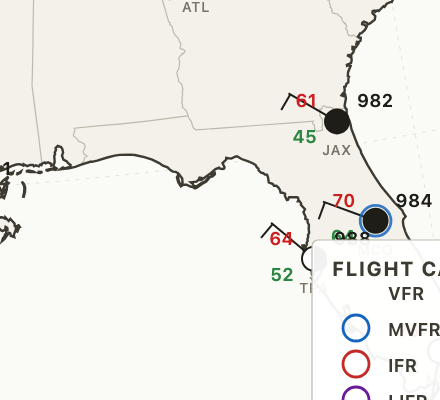
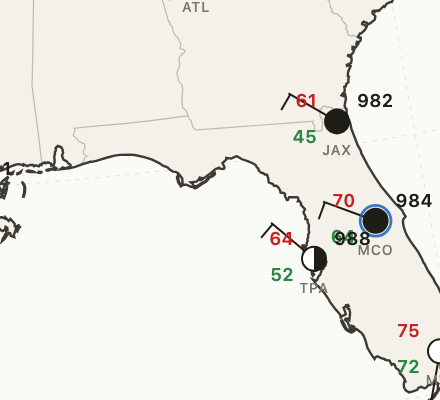
spike(wx-chart-03): move legends into footer band so Florida/MIA stays visible

Changed region(s): [[0.7091, 0.6, 1.0, 1.0], [0.8864, 0.72, 0.975, 0.75]]

diff --git a/spikes/wx-charts/03-metar-plot-grid/src/render.ts b/spikes/wx-charts/03-metar-plot-grid/src/render.ts
@@ -19,6 +19,18 @@ import { resolve } from 'node:path';
 import { geoPath, type GeoProjection } from 'd3-geo';
 import { loadBasemap } from './basemap';
 import { buildConusProjection, SVG_HEIGHT, SVG_WIDTH, TITLE_BAND_HEIGHT } from './projection';
+
+/**
+ * Spike 3 extends the canvas height for a footer legend strip. The
+ * projection fits into the original SVG_HEIGHT (Spike-2 contract); the
+ * footer adds dedicated space below for legends so they don't overlap
+ * Florida, the Gulf coast, or the Pacific NW.
+ *
+ * If we composed Spike 3 with another chart (radar), we'd drop the
+ * footer and use the spike-2 dimensions.
+ */
+const FOOTER_HEIGHT = 110;
+const TOTAL_HEIGHT = SVG_HEIGHT + FOOTER_HEIGHT;
 import { resolveCollisions, type PlacedGlyph } from './collision';
 import { renderStationModel } from './station-model';
 import { ceilingFtAgl, flightCategory, summarizeCover, type ParsedMetar, type FlightCategory } from './metar';
@@ -78,12 +90,13 @@ function renderTitle(envelope: IngestEnvelope): string {
  * Glyph legend showing the station-model layout. Bottom-left area.
  */
 function renderLegend(): string {
+	const W = 460;
+	const H = FOOTER_HEIGHT - 10;
+	// Footer strip, left half
 	const x0 = 24;
-	const y0 = SVG_HEIGHT - 138;
-	const W = 320;
-	const H = 116;
-	const legendCx = x0 + 200;
-	const legendCy = y0 + 60;
+	const y0 = SVG_HEIGHT + 5;
+	const legendCx = x0 + W - 60;
+	const legendCy = y0 + H / 2;
 	// Build a fake parsed METAR for the demo glyph
 	const demo: ParsedMetar = {
 		station: 'KDEM',
@@ -101,6 +114,7 @@ function renderLegend(): string {
 		raw: '',
 	};
 	const demoSvg = renderStationModel({ parsed: demo, cx: legendCx, cy: legendCy });
+	// Two-column field labels so the legend stays compact in the footer
 	return `<g class="legend">
 		<rect x="${x0}" y="${y0}" width="${W}" height="${H}" fill="white" fill-opacity="0.94" stroke="#bdb9ac" stroke-width="0.6" rx="3" />
 		<text x="${x0 + 10}" y="${y0 + 18}" font-size="10" font-weight="700" fill="#3d3a32" letter-spacing="0.6">STATION MODEL</text>
@@ -108,15 +122,19 @@ function renderLegend(): string {
 		<text x="${x0 + 10}" y="${y0 + 50}" font-size="9" fill="#3d3a32">dewpt degF (bot-L)</text>
 		<text x="${x0 + 10}" y="${y0 + 64}" font-size="9" fill="#3d3a32">vis SM (left)</text>
 		<text x="${x0 + 10}" y="${y0 + 78}" font-size="9" fill="#3d3a32">wx (left of circle)</text>
-		<text x="${x0 + 10}" y="${y0 + 92}" font-size="9" fill="#3d3a32">altimeter (top-R)</text>
-		<text x="${x0 + 10}" y="${y0 + 106}" font-size="9" fill="#3d3a32">wind: from -> shaft, KT in barbs (NH)</text>
+		<text x="${x0 + 140}" y="${y0 + 36}" font-size="9" fill="#3d3a32">altimeter (top-R)</text>
+		<text x="${x0 + 140}" y="${y0 + 50}" font-size="9" fill="#3d3a32">cover -> circle fill</text>
+		<text x="${x0 + 140}" y="${y0 + 64}" font-size="9" fill="#3d3a32">wind from -> shaft</text>
+		<text x="${x0 + 140}" y="${y0 + 78}" font-size="9" fill="#3d3a32">barb: half=5 full=10 KT</text>
 		${demoSvg}
-		<text x="${legendCx - 30}" y="${y0 + 100}" font-size="8" fill="#7a7568">demo: 25KT/W, OVC1500, -RA, 5C/3C, A3005</text>
+		<text x="${legendCx - 60}" y="${y0 + H - 6}" font-size="8" fill="#7a7568">demo: 25KT/W, OVC1500, -RA, 5C/3C, A3005</text>
 	</g>`;
 }
 
 /**
- * Flight-category swatches. Bottom-right.
+ * Flight-category swatches. Upper-left, in the empty Pacific area below
+ * the title band. Florida and the SE coast were colliding with this
+ * legend when it was bottom-right.
  */
 function renderCategoryLegend(): string {
 	const items: ReadonlyArray<{ cat: FlightCategory; color: string; def: string }> = [
@@ -125,10 +143,11 @@ function renderCategoryLegend(): string {
 		{ cat: 'IFR', color: '#c62828', def: 'ceil 500-1000 or vis 1-3' },
 		{ cat: 'LIFR', color: '#6a1b9a', def: 'ceil <500 or vis <1' },
 	];
-	const W = 260;
-	const H = items.length * 18 + 24;
+	const W = 380;
+	const H = FOOTER_HEIGHT - 10;
+	// Footer strip, right half (paired with STATION MODEL legend on left)
 	const x0 = SVG_WIDTH - 24 - W;
-	const y0 = SVG_HEIGHT - 24 - H;
+	const y0 = SVG_HEIGHT + 5;
 	const rows: string[] = [];
 	for (let i = 0; i < items.length; i += 1) {
 		const it = items[i];
@@ -201,8 +220,10 @@ function main(): void {
 	}
 
 	const svgBody = [
-		// 1. Background
-		`<rect x="0" y="0" width="${SVG_WIDTH}" height="${SVG_HEIGHT}" fill="#fafaf7" />`,
+		// 1. Background -- spans the full chart + footer canvas
+		`<rect x="0" y="0" width="${SVG_WIDTH}" height="${TOTAL_HEIGHT}" fill="#fafaf7" />`,
+		// Footer separator line
+		`<line x1="0" y1="${SVG_HEIGHT}" x2="${SVG_WIDTH}" y2="${SVG_HEIGHT}" stroke="#d8d4c8" stroke-width="0.6" />`,
 
 		// 2. Graticule
 		renderGraticule(projection),
@@ -231,7 +252,7 @@ function main(): void {
 	].join('\n');
 
 	const svg = `<?xml version="1.0" encoding="UTF-8"?>
-<svg xmlns="http://www.w3.org/2000/svg" width="${SVG_WIDTH}" height="${SVG_HEIGHT}" viewBox="0 0 ${SVG_WIDTH} ${SVG_HEIGHT}" font-family="-apple-system, system-ui, sans-serif">
+<svg xmlns="http://www.w3.org/2000/svg" width="${SVG_WIDTH}" height="${TOTAL_HEIGHT}" viewBox="0 0 ${SVG_WIDTH} ${TOTAL_HEIGHT}" font-family="-apple-system, system-ui, sans-serif">
 ${svgBody}
 </svg>
 `;

diff --git a/spikes/wx-charts/03-metar-plot-grid/spike-output.html b/spikes/wx-charts/03-metar-plot-grid/spike-output.html
@@ -14,8 +14,9 @@
 </head>
 <body>
 <h1>Spike 03 -- Surface Observations 2024-01-13 12Z (CONUS, Lambert Conformal Conic 33/45)</h1>
-<div class="chart"><svg xmlns="http://www.w3.org/2000/svg" width="1200" height="780" viewBox="0 0 1200 780" font-family="-apple-system, system-ui, sans-serif">
-<rect x="0" y="0" width="1200" height="780" fill="#fafaf7" />
+<div class="chart"><svg xmlns="http://www.w3.org/2000/svg" width="1200" height="890" viewBox="0 0 1200 890" font-family="-apple-system, system-ui, sans-serif">
+<rect x="0" y="0" width="1200" height="890" fill="#fafaf7" />
+<line x1="0" y1="780" x2="1200" y2="780" stroke="#d8d4c8" stroke-width="0.6" />
 <g class="graticule">
 <path d="M-225.353,742.304L-215.571,717.39L-205.839,692.602L-196.153,667.933L-186.512,643.377L-176.911,618.925L-167.349,594.57L-157.823,570.307L-148.329,546.127L-138.865,522.024L-129.429,497.991L-120.018,474.021L-110.629,450.107L-101.259,426.243L-91.906,402.422L-82.568,378.636L-73.24,354.879L-63.921,331.143L-54.608,307.423L-45.297,283.71L-35.988,259.998L-26.675,236.28L-17.357,212.547L-8.03,188.793L1.308,165.009L10.66,141.189L20.03,117.323L29.422,93.404L38.837,69.423L48.28,45.372L57.755,21.241L67.264,-2.98L76.813,-27.299L86.404,-51.726L96.041,-76.274L105.731,-100.951" fill="none" stroke="#e0ddd2" stroke-width="0.4" stroke-dasharray="2 3" />
 <path d="M13.972,821.378L20.959,795.54L27.91,769.834L34.828,744.251L41.715,718.784L48.572,693.426L55.402,668.169L62.206,643.006L68.987,617.929L75.746,592.933L82.486,568.009L89.208,543.151L95.914,518.351L102.606,493.602L109.287,468.897L115.957,444.229L122.619,419.592L129.275,394.977L135.927,370.377L142.577,345.785L149.227,321.194L155.878,296.597L162.534,271.984L169.195,247.349L175.865,222.684L182.545,197.981L189.238,173.23L195.946,148.425L202.671,123.555L209.416,98.612L216.183,73.586L222.975,48.468L229.795,23.248L236.645,-2.086L243.529,-27.543L250.449,-53.135" fill="none" stroke="#e0ddd2" stroke-width="0.4" stroke-dasharray="2 3" />
@@ -101,28 +102,30 @@
 		<text x="1176" y="46" text-anchor="end" font-size="11" fill="#a09b8d">spike prototype  --  not for ops use</text>
 	</g>
 <g class="legend">
-		<rect x="24" y="642" width="320" height="116" fill="white" fill-opacity="0.94" stroke="#bdb9ac" stroke-width="0.6" rx="3" />
-		<text x="34" y="660" font-size="10" font-weight="700" fill="#3d3a32" letter-spacing="0.6">STATION MODEL</text>
-		<text x="34" y="678" font-size="9" fill="#3d3a32">temp degF (top-L)</text>
-		<text x="34" y="692" font-size="9" fill="#3d3a32">dewpt degF (bot-L)</text>
-		<text x="34" y="706" font-size="9" fill="#3d3a32">vis SM (left)</text>
-		<text x="34" y="720" font-size="9" fill="#3d3a32">wx (left of circle)</text>
-		<text x="34" y="734" font-size="9" fill="#3d3a32">altimeter (top-R)</text>
-		<text x="34" y="748" font-size="9" fill="#3d3a32">wind: from -> shaft, KT in barbs (NH)</text>
-		<g class="station" data-station="KDEM" data-cat="MVFR" transform="translate(224.0,702.0)"><line x1="-6.00" y1="0.00" x2="-28.00" y2="0.00" stroke="#1f1d18" stroke-width="1.0" /><line x1="-27.00" y1="0.00" x2="-27.00" y2="9.00" stroke="#1f1d18" stroke-width="1.0" /><line x1="-23.50" y1="0.00" x2="-23.50" y2="9.00" stroke="#1f1d18" stroke-width="1.0" /><line x1="-20.00" y1="0.00" x2="-20.00" y2="4.50" stroke="#1f1d18" stroke-width="1.0" /><circle cx="0" cy="0" r="7.7" fill="none" stroke="#1565c0" stroke-width="1.4" opacity="0.85" /><circle cx="0" cy="0" r="6" fill="white" stroke="#1f1d18" stroke-width="1" /><circle cx="0" cy="0" r="6" fill="#1f1d18" /><text x="-10" y="-7" text-anchor="end" font-size="9" font-weight="600" fill="#cc1f1f">41</text><text x="-10" y="11" text-anchor="end" font-size="9" font-weight="600" fill="#2c8742">37</text><text x="10" y="-7" font-size="9" font-weight="600" fill="#1f1d18">005</text><text x="-22" y="3" text-anchor="end" font-size="9" font-weight="600" fill="#1f1d18">4</text><text x="-12" y="3" text-anchor="end" font-size="10" font-weight="700" fill="#7d3eb5">-RA</text><text x="0" y="17" text-anchor="middle" font-size="7" font-weight="500" fill="#7a7568" letter-spacing="0.2">DEM</text></g>
-		<text x="194" y="742" font-size="8" fill="#7a7568">demo: 25KT/W, OVC1500, -RA, 5C/3C, A3005</text>
+		<rect x="24" y="785" width="460" height="100" fill="white" fill-opacity="0.94" stroke="#bdb9ac" stroke-width="0.6" rx="3" />
+		<text x="34" y="803" font-size="10" font-weight="700" fill="#3d3a32" letter-spacing="0.6">STATION MODEL</text>
+		<text x="34" y="821" font-size="9" fill="#3d3a32">temp degF (top-L)</text>
+		<text x="34" y="835" font-size="9" fill="#3d3a32">dewpt degF (bot-L)</text>
+		<text x="34" y="849" font-size="9" fill="#3d3a32">vis SM (left)</text>
+		<text x="34" y="863" font-size="9" fill="#3d3a32">wx (left of circle)</text>
+		<text x="164" y="821" font-size="9" fill="#3d3a32">altimeter (top-R)</text>
+		<text x="164" y="835" font-size="9" fill="#3d3a32">cover -> circle fill</text>
+		<text x="164" y="849" font-size="9" fill="#3d3a32">wind from -> shaft</text>
+		<text x="164" y="863" font-size="9" fill="#3d3a32">barb: half=5 full=10 KT</text>
+		<g class="station" data-station="KDEM" data-cat="MVFR" transform="translate(424.0,835.0)"><line x1="-6.00" y1="0.00" x2="-28.00" y2="0.00" stroke="#1f1d18" stroke-width="1.0" /><line x1="-27.00" y1="0.00" x2="-27.00" y2="9.00" stroke="#1f1d18" stroke-width="1.0" /><line x1="-23.50" y1="0.00" x2="-23.50" y2="9.00" stroke="#1f1d18" stroke-width="1.0" /><line x1="-20.00" y1="0.00" x2="-20.00" y2="4.50" stroke="#1f1d18" stroke-width="1.0" /><circle cx="0" cy="0" r="7.7" fill="none" stroke="#1565c0" stroke-width="1.4" opacity="0.85" /><circle cx="0" cy="0" r="6" fill="white" stroke="#1f1d18" stroke-width="1" /><circle cx="0" cy="0" r="6" fill="#1f1d18" /><text x="-10" y="-7" text-anchor="end" font-size="9" font-weight="600" fill="#cc1f1f">41</text><text x="-10" y="11" text-anchor="end" font-size="9" font-weight="600" fill="#2c8742">37</text><text x="10" y="-7" font-size="9" font-weight="600" fill="#1f1d18">005</text><text x="-22" y="3" text-anchor="end" font-size="9" font-weight="600" fill="#1f1d18">4</text><text x="-12" y="3" text-anchor="end" font-size="10" font-weight="700" fill="#7d3eb5">-RA</text><text x="0" y="17" text-anchor="middle" font-size="7" font-weight="500" fill="#7a7568" letter-spacing="0.2">DEM</text></g>
+		<text x="364" y="879" font-size="8" fill="#7a7568">demo: 25KT/W, OVC1500, -RA, 5C/3C, A3005</text>
 	</g>
 <g class="cat-legend">
-		<rect x="916" y="660" width="260" height="96" fill="white" fill-opacity="0.94" stroke="#bdb9ac" stroke-width="0.6" rx="3" />
-		<text x="926" y="678" font-size="10" font-weight="700" fill="#3d3a32" letter-spacing="0.6">FLIGHT CATEGORY  (RING COLOR)</text>
-		<text x="954" y="690" font-size="9" font-weight="600" fill="#3d3a32">VFR</text>
-			<text x="994" y="690" font-size="9" fill="#7a7568">ceil >3000 + vis >5SM</text>
-<circle cx="938" cy="704" r="6.5" fill="none" stroke="#1565c0" stroke-width="1.4" /><text x="954" y="708" font-size="9" font-weight="600" fill="#3d3a32">MVFR</text>
-			<text x="994" y="708" font-size="9" fill="#7a7568">ceil 1000-3000 or vis 3-5</text>
-<circle cx="938" cy="722" r="6.5" fill="none" stroke="#c62828" stroke-width="1.4" /><text x="954" y="726" font-size="9" font-weight="600" fill="#3d3a32">IFR</text>
-			<text x="994" y="726" font-size="9" fill="#7a7568">ceil 500-1000 or vis 1-3</text>
-<circle cx="938" cy="740" r="6.5" fill="none" stroke="#6a1b9a" stroke-width="1.4" /><text x="954" y="744" font-size="9" font-weight="600" fill="#3d3a32">LIFR</text>
-			<text x="994" y="744" font-size="9" fill="#7a7568">ceil <500 or vis <1</text>
+		<rect x="796" y="785" width="380" height="100" fill="white" fill-opacity="0.94" stroke="#bdb9ac" stroke-width="0.6" rx="3" />
+		<text x="806" y="803" font-size="10" font-weight="700" fill="#3d3a32" letter-spacing="0.6">FLIGHT CATEGORY  (RING COLOR)</text>
+		<text x="834" y="815" font-size="9" font-weight="600" fill="#3d3a32">VFR</text>
+			<text x="874" y="815" font-size="9" fill="#7a7568">ceil >3000 + vis >5SM</text>
+<circle cx="818" cy="829" r="6.5" fill="none" stroke="#1565c0" stroke-width="1.4" /><text x="834" y="833" font-size="9" font-weight="600" fill="#3d3a32">MVFR</text>
+			<text x="874" y="833" font-size="9" fill="#7a7568">ceil 1000-3000 or vis 3-5</text>
+<circle cx="818" cy="847" r="6.5" fill="none" stroke="#c62828" stroke-width="1.4" /><text x="834" y="851" font-size="9" font-weight="600" fill="#3d3a32">IFR</text>
+			<text x="874" y="851" font-size="9" fill="#7a7568">ceil 500-1000 or vis 1-3</text>
+<circle cx="818" cy="865" r="6.5" fill="none" stroke="#6a1b9a" stroke-width="1.4" /><text x="834" y="869" font-size="9" font-weight="600" fill="#3d3a32">LIFR</text>
+			<text x="874" y="869" font-size="9" fill="#7a7568">ceil <500 or vis <1</text>
 	</g>
 </svg>
 </div>

diff --git a/spikes/wx-charts/03-metar-plot-grid/src/screenshot.ts b/spikes/wx-charts/03-metar-plot-grid/src/screenshot.ts
@@ -22,6 +22,22 @@ async function main(): Promise<void> {
 	await page.waitForLoadState('networkidle');
 	const svg = page.locator('svg').first();
 	await svg.screenshot({ path: outPath });
+
+	// For the spike-output, also capture a 1200x780 chart-only crop that
+	// matches Spikes 1+2's preview dimensions (the brief calls for
+	// "1200x780 screenshot via playwright -- mirror Spikes 1+2"). The
+	// footer with legends sits below.
+	if (target === 'spike-output') {
+		const box = await svg.boundingBox();
+		if (box) {
+			await page.screenshot({
+				path: resolve(root, 'spike-preview-1200x780.png'),
+				clip: { x: box.x, y: box.y, width: 1200, height: 780 },
+			});
+			console.log(`Wrote spike-preview-1200x780.png (chart-only, matches Spikes 1+2 dims)`);
+		}
+	}
+
 	await browser.close();
 	console.log(`Wrote ${outPath}`);
 }